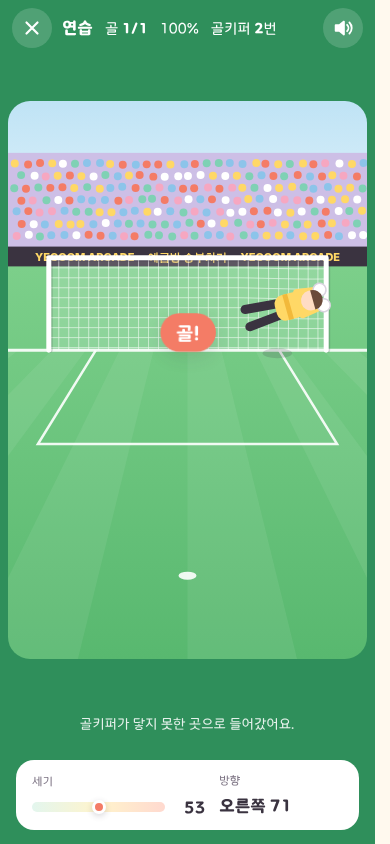
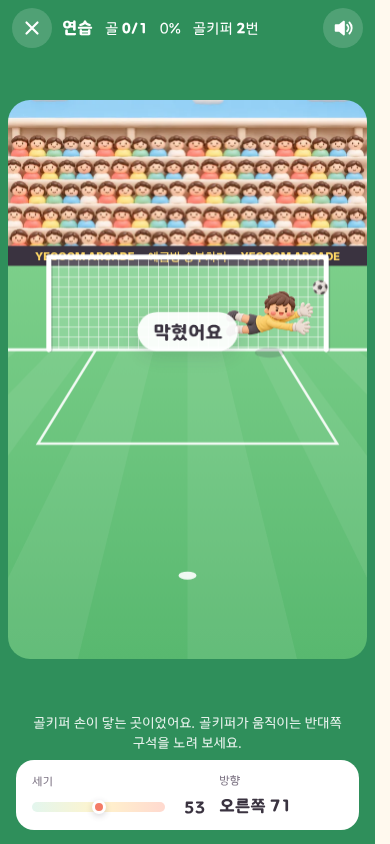
추가 그림 5장 반영: 관중석, 골키퍼 점프, 세 게임 결과 그림
- 승부차기 배경 윗부분을 받은 관중석 그림으로 그리고, 가까이 오는 높은 공에는 점프 그림을 쓴다.
- 컬링·승부차기 결과 창과 빙고 1등 결과 카드에 결과 그림을 넣었다.
- prepare-arcade-art.py가 12장 전체를 변환한다.

Claude-Session: https://claude.ai/code/session_01Ei8sjbU4X53G2XoeWvbNEU

diff --git a/src/penalty/render.ts b/src/penalty/render.ts
@@ -34,10 +34,14 @@ export interface Scene {
   netAt: { x: number; y: number } | null;
 }
 const POST = 5;
-export const ART = { ball: "/penalty/ball.webp", ready: "/penalty/keeper-ready.webp", dive: "/penalty/keeper-dive.webp" } as const;
+export const ART = { ball: "/penalty/ball.webp", ready: "/penalty/keeper-ready.webp", dive: "/penalty/keeper-dive.webp", jump: "/penalty/keeper-jump.webp", stand: "/penalty/stand.webp" } as const;
 /** How tall the standing keeper picture is, and how long the diving one, in metres.
  * Standing, the open arms span about the reach the engine gives a keeper who does not move. */
-const KEEPER_HEIGHT = 1.95, DIVE_LENGTH = 2.3;
+const KEEPER_HEIGHT = 1.95, DIVE_LENGTH = 2.3, JUMP_HEIGHT = 2.3;
+/** Off the ground by more than this (metres) without diving, the keeper is drawn jumping. */
+const JUMP_LIFT = 0.1;
+/** The stand picture covers the stage down to the foot of the advertising board. */
+const STAND_HEIGHT = 166, BOARD_TOP = 146;
 /** Past this lean the diving picture replaces the standing one. */
 const DIVE_LEAN = 0.75;
 
@@ -54,7 +58,8 @@ export class PenaltyRenderer {
     if (typeof Image !== "undefined") for (const key of Object.keys(ART) as (keyof typeof ART)[]) {
       const image = new Image();
       image.decoding = "async";
-      image.onload = () => { this.art[key] = image; };
+      // The stand is part of the painted backdrop: paint that again once it is here.
+      image.onload = () => { this.art[key] = image; if (key === "stand") this.backdrop = null; };
       image.src = ART[key];
     }
   }
@@ -85,19 +90,22 @@ export class PenaltyRenderer {
     layer.width = this.canvas.width; layer.height = this.canvas.height;
     const ctx = layer.getContext("2d")!;
     ctx.setTransform(this.ratio, 0, 0, this.ratio, 0, 0);
-    const sky = ctx.createLinearGradient(0, 0, 0, 150);
-    sky.addColorStop(0, "#bfe3f5"); sky.addColorStop(1, "#e6f5fb");
-    ctx.fillStyle = sky; ctx.fillRect(0, 0, STAGE.width, 150);
-    // The stand: rows of dots for the crowd, then an advertising board.
-    ctx.fillStyle = "#cdbfe6"; ctx.fillRect(0, 52, STAGE.width, 100);
-    let seed = 11;
-    const random = () => ((seed = (Math.imul(seed, 1664525) + 1013904223) >>> 0) / 0x100000000);
-    const crowd = ["#f47c66", "#ffd866", "#ffffff", "#7fd1b4", "#8cc4ea", "#f6a7c1"];
-    for (let row = 0; row < 7; row++) for (let x = 6 + (row % 2) * 6; x < STAGE.width; x += 12) {
-      ctx.fillStyle = crowd[Math.floor(random() * crowd.length)]!;
-      ctx.beginPath(); ctx.arc(x + random() * 3, 62 + row * 12 + random() * 2, 4, 0, Math.PI * 2); ctx.fill();
+    if (this.art.stand) ctx.drawImage(this.art.stand, 0, 0, STAGE.width, STAND_HEIGHT);
+    else {
+      const sky = ctx.createLinearGradient(0, 0, 0, 150);
+      sky.addColorStop(0, "#bfe3f5"); sky.addColorStop(1, "#e6f5fb");
+      ctx.fillStyle = sky; ctx.fillRect(0, 0, STAGE.width, 150);
+      // The stand: rows of dots for the crowd, then an advertising board.
+      ctx.fillStyle = "#cdbfe6"; ctx.fillRect(0, 52, STAGE.width, 100);
+      let seed = 11;
+      const random = () => ((seed = (Math.imul(seed, 1664525) + 1013904223) >>> 0) / 0x100000000);
+      const crowd = ["#f47c66", "#ffd866", "#ffffff", "#7fd1b4", "#8cc4ea", "#f6a7c1"];
+      for (let row = 0; row < 7; row++) for (let x = 6 + (row % 2) * 6; x < STAGE.width; x += 12) {
+        ctx.fillStyle = crowd[Math.floor(random() * crowd.length)]!;
+        ctx.beginPath(); ctx.arc(x + random() * 3, 62 + row * 12 + random() * 2, 4, 0, Math.PI * 2); ctx.fill();
+      }
     }
-    ctx.fillStyle = "#3a3340"; ctx.fillRect(0, 146, STAGE.width, 20);
+    ctx.fillStyle = "#3a3340"; ctx.fillRect(0, BOARD_TOP, STAGE.width, STAND_HEIGHT - BOARD_TOP);
     ctx.fillStyle = "#ffd866"; ctx.font = "800 11px system-ui, sans-serif"; ctx.textAlign = "center";
     ctx.fillText("YEGOOM ARCADE  ·  예굼방 승부차기  ·  YEGOOM ARCADE", CX, 160);
     const grass = ctx.createLinearGradient(0, 166, 0, STAGE.height);
@@ -164,7 +172,7 @@ export class PenaltyRenderer {
     // Shadow stays on the grass under the keeper.
     ctx.fillStyle = "rgba(58, 51, 64, 0.18)";
     ctx.beginPath(); ctx.ellipse(feet.x, GROUND + 3, 20 - Math.min(8, pose.lift * 8), 5, 0, 0, Math.PI * 2); ctx.fill();
-    const lean = Math.abs(pose.lean), { ready, dive } = this.art;
+    const lean = Math.abs(pose.lean), { ready, dive, jump } = this.art;
     if (dive && lean > DIVE_LEAN) {
       // Flying sideways: the picture dives to the right and is mirrored for the left.
       // Early in the dive it is still tipped up; at full stretch it lies level.
@@ -177,8 +185,17 @@ export class PenaltyRenderer {
       ctx.restore();
       return;
     }
+    if (jump && pose.lift > JUMP_LIFT) {
+      // Up for a high ball close by: arms straight above the head.
+      const height = JUMP_HEIGHT * unit, width = height * KEEPER_ART.jump;
+      ctx.translate(feet.x, feet.y);
+      ctx.rotate(pose.lean * 0.6);
+      ctx.drawImage(jump, -width / 2, -height, width, height);
+      ctx.restore();
+      return;
+    }
     if (ready) {
-      // Standing, stepping or jumping: the picture turns a little about its feet.
+      // Standing or stepping: the picture turns a little about its feet.
       const height = KEEPER_HEIGHT * unit, width = height * KEEPER_ART.ready;
       ctx.translate(feet.x, feet.y);
       ctx.rotate(pose.lean * 0.6);

diff --git a/src/screens/Bingo.tsx b/src/screens/Bingo.tsx
@@ -291,6 +291,7 @@ function Result({ game, me }: { game: BingoGameView; me: string }) {
   const mine = game.seats.find(seat => seat.player.id === me);
   return <section className="bingo-card card" aria-label="지난 빙고 결과">
     <div className="bingo-head"><strong>{game.number}번째 빙고 「{game.topic}」</strong><span className="bingo-chip">{game.lines}줄 빙고</span></div>
+    {mine?.rank === 1 && <img className="bingo-result-art" src="/bingo/result.webp" alt="" />}
     <p className="bingo-hint">{mine?.rank ? `${mine.rank}등으로 마쳤어요${mine.points ? ` · +${mine.points}점` : ""}.` : "이번 판 결과예요."} 단어 {game.calls.length}개가 지워졌어요.</p>
     <Seats game={game} me={me} />
     <details className="bingo-reveal"><summary>모두의 빙고판 보기</summary>

diff --git a/src/penalty/art.ts b/src/penalty/art.ts
@@ -1,3 +1,3 @@
 // Written by scripts/prepare-arcade-art.py from the keeper pictures. Do not edit by hand.
 /** Width divided by height of each keeper picture once its margin is cropped. */
-export const KEEPER_ART = { ready: 0.9844, dive: 1.9394 } as const;
+export const KEEPER_ART = { ready: 0.9844, dive: 1.9394, jump: 0.7375 } as const;

diff --git a/src/bingo.css b/src/bingo.css
@@ -61,3 +61,4 @@ button.bingo-cell { touch-action: manipulation; }
 .bingo-reveal { font-size: 13px; }
 .bingo-reveal-board { display: grid; gap: 6px; margin-top: 12px; }
 .bingo-reveal-board small { color: var(--muted); font-weight: 700; }
+.bingo-result-art { display: block; width: 132px; height: 132px; margin: 0 auto -4px; }

diff --git a/scripts/prepare-arcade-art.py b/scripts/prepare-arcade-art.py
@@ -2,11 +2,13 @@
 """Optimize the user-provided curling, penalty and bingo images (docs/asset-provenance.md).
 
 Usage: python3 scripts/prepare-arcade-art.py <folder with the original PNGs>
-Reads curling-tile, penalty-tile, bingo-tile, curling-stone, penalty-ball,
-keeper-ready and keeper-dive (.png) and writes WebP files (RGB quality 85,
-lossless alpha) under public/curling, public/penalty and public/bingo. Faint
-specks (alpha 24 or less) are cleared and the transparent margin is cropped.
-It also writes src/penalty/art.ts with the keeper pictures' proportions.
+Reads the tile, result, stone, ball and keeper pictures and the stadium stand
+(.png, named as in docs/arcade-image-prompts.md) and writes WebP files (RGB
+quality 85, lossless alpha) under public/curling, public/penalty and
+public/bingo. Faint specks (alpha 24 or less) are cleared and the transparent
+margin is cropped. The stand is an opaque background: a band of it is cut to
+the shape of the top of the penalty stage. It also writes src/penalty/art.ts
+with the keeper pictures' proportions.
 Requires Pillow with WebP support.
 """
 
@@ -28,7 +30,15 @@ TARGETS = {
     "penalty-ball": ("public/penalty/ball.webp", "square", 128),
     "keeper-ready": ("public/penalty/keeper-ready.webp", "height", 256),
     "keeper-dive": ("public/penalty/keeper-dive.webp", "width", 320),
+    "keeper-jump": ("public/penalty/keeper-jump.webp", "height", 320),
+    "curling-result": ("public/curling/result.webp", "square", 240),
+    "penalty-result": ("public/penalty/result.webp", "square", 240),
+    "bingo-result": ("public/bingo/result.webp", "square", 240),
 }
+# The stand fills the stage above the goal line's advertising board: 360 x 166
+# logical pixels, stored at twice that. The band starts a little above the roof
+# so some sky shows, and ends inside the front row (the board is drawn over it).
+STAND = {"output": "public/penalty/stand.webp", "top": 130 / 1024, "size": (720, 332)}
 
 
 def trimmed(source: Path) -> Image.Image:
@@ -62,11 +72,19 @@ def prepare(folder: Path, root: Path) -> None:
         image.save(destination, format="WEBP", quality=QUALITY, alpha_quality=100, lossless=False, method=6, exact=True)
         sizes[name] = image.size
         print(f"{name}\t{source.stat().st_size}\t{destination.stat().st_size}\t{image.width}x{image.height}")
-    ready, dive = sizes["keeper-ready"], sizes["keeper-dive"]
+    with Image.open(folder / "penalty-stand.png") as original:
+        stand = original.convert("RGB")
+    width, height = STAND["size"]
+    top = round(stand.height * STAND["top"])
+    band = stand.crop((0, top, stand.width, top + round(stand.width * height / width))).resize((width, height), Image.Resampling.LANCZOS)
+    destination = root / STAND["output"]
+    band.save(destination, format="WEBP", quality=80, method=6)
+    print(f"penalty-stand\t{(folder / 'penalty-stand.png').stat().st_size}\t{destination.stat().st_size}\t{width}x{height}")
+    ready, dive, jump = sizes["keeper-ready"], sizes["keeper-dive"], sizes["keeper-jump"]
     (root / "src/penalty/art.ts").write_text(
         "// Written by scripts/prepare-arcade-art.py from the keeper pictures. Do not edit by hand.\n"
         "/** Width divided by height of each keeper picture once its margin is cropped. */\n"
-        f"export const KEEPER_ART = {{ ready: {ready[0] / ready[1]:.4f}, dive: {dive[0] / dive[1]:.4f} }} as const;\n",
+        f"export const KEEPER_ART = {{ ready: {ready[0] / ready[1]:.4f}, dive: {dive[0] / dive[1]:.4f}, jump: {jump[0] / jump[1]:.4f} }} as const;\n",
         encoding="utf-8",
     )
 

diff --git a/docs/asset-provenance.md b/docs/asset-provenance.md
@@ -73,9 +73,9 @@ python3 scripts/prepare-santa-art.py /path/to/santa-images
 
 ## 컬링·승부차기·빙고 그림
 
-- `public/curling/{tile,stone}.webp`, `public/penalty/{tile,ball,keeper-ready,keeper-dive}.webp`, `public/bingo/tile.webp` 7장은 사용자가 2026-11-20에 제공한 이미지다. 사용자가 [이미지 프롬프트](arcade-image-prompts.md)로 이미지 생성기에서 만들었다. 지인용 비공개 서비스 전용이다.
-- 원본 PNG(1024×1024, 골키퍼 다이빙만 1536×1024, 장당 0.7~1.7MB)는 커밋 `91a0e84`의 `public/arcade/`에 있다. 그대로 두면 서비스 워커가 미리 받아 두는 파일에 들어가므로 변환한 뒤 작업 트리에서는 지웠다.
-- `scripts/prepare-arcade-art.py`가 알파 24 이하의 옅은 잡티를 지우고 투명 여백을 자른 뒤 WebP(RGB quality 85, 알파 무손실)로 줄인다. 골키퍼 두 장의 가로세로 비율은 `src/penalty/art.ts`로 쓴다. 그림을 바꾸면 스크립트를 다시 돌린다.
+- `public/curling/{tile,result,stone}.webp`, `public/penalty/{tile,result,ball,keeper-ready,keeper-dive,keeper-jump,stand}.webp`, `public/bingo/{tile,result}.webp` 12장은 사용자가 2026-11-20에 제공한 이미지다(먼저 7장, 이어서 골키퍼 점프·관중석·결과 그림 3장). 사용자가 [이미지 프롬프트](arcade-image-prompts.md)로 이미지 생성기에서 만들었다. 지인용 비공개 서비스 전용이다.
+- 먼저 받은 7장의 원본 PNG(1024×1024, 골키퍼 다이빙만 1536×1024, 장당 0.7~1.7MB)는 커밋 `91a0e84`의 `public/arcade/`에 있다. 그대로 두면 서비스 워커가 미리 받아 두는 파일에 들어가므로 변환한 뒤 작업 트리에서는 지웠다. 나중에 받은 5장은 압축 파일로 받아 변환만 했고 원본은 저장소에 없다.
+- `scripts/prepare-arcade-art.py`가 알파 24 이하의 옅은 잡티를 지우고 투명 여백을 자른 뒤 WebP(RGB quality 85, 알파 무손실)로 줄인다. 관중석은 불투명 배경이라 여백을 자르지 않고, 지붕 조금 위부터 무대 윗부분 모양(360:166)만큼 잘라 쓴다(맨 앞줄 아래는 코드로 그리는 광고판이 가린다). 골키퍼 세 장의 가로세로 비율은 `src/penalty/art.ts`로 쓴다. 그림을 바꾸면 스크립트를 다시 돌린다.
 
 | 파일 | 원본 | WebP 바이트 | 크기 |
 | --- | --- | ---: | --- |
@@ -86,6 +86,11 @@ python3 scripts/prepare-santa-art.py /path/to/santa-images
 | penalty/ball | penalty-ball.png 1024×1024 | 5,400 | 128×128 |
 | penalty/keeper-ready | keeper-ready.png 1024×1024 | 16,346 | 252×256 |
 | penalty/keeper-dive | keeper-dive.png 1536×1024 | 16,274 | 320×165 |
+| penalty/keeper-jump | keeper-jump.png 1024×1536 | 18,780 | 236×320 |
+| curling/result | curling-result.png 1254×1254 | 16,636 | 240×240 |
+| penalty/result | penalty-result.png 1254×1254 | 18,996 | 240×240 |
+| bingo/result | bingo-result.png 1254×1254 | 17,602 | 240×240 |
+| penalty/stand | penalty-stand.png 1536×1024 | 43,080 | 720×332 |
 
 ```sh
 git show 91a0e84 --stat   # 원본 PNG가 들어 있는 커밋

diff --git a/docs/arcade-image-prompts.md b/docs/arcade-image-prompts.md
@@ -1,6 +1,6 @@
 # 컬링·승부차기·빙고 — 이미지 프롬프트
 
-> 1~7번은 2026-11-20에 받아서 반영했습니다([출처 기록](asset-provenance.md)). 선택 그림(8~10번)은 아직 없고, 없는 동안에는 준비 자세 그림과 코드로 그린 관중석을 씁니다.
+> 1~10번을 모두 2026-11-20에 받아서 반영했습니다([출처 기록](asset-provenance.md)). 결과 그림은 컬링·승부차기 결과 창과, 빙고에서 1등을 했을 때의 결과 카드에 씁니다.
 
 **한 대화창에서 0번부터 차례로** 만들면 그림체가 맞춰집니다.
 
@@ -86,7 +86,7 @@ The SAME goalkeeper character as the previous image (same face, same hair, same 
 
 ## (선택) 있으면 좋은 그림
 
-필수는 아닙니다. 없으면 지금처럼 코드로 그리거나 다른 그림을 대신 씁니다.
+필수는 아니었지만 모두 받았습니다. 그림을 불러오지 못하면 코드로 그린 도형이 대신 나옵니다.
 
 ### 8. 골키퍼 점프 — `keeper-jump.png`
 
@@ -106,7 +106,7 @@ Cute 3D clay toy style background for a soccer penalty game: a stadium stand see
 
 ### 10. 결과 창 그림 — `curling-result.png` · `penalty-result.png` · `bingo-result.png`
 
-결과 창에는 타일 그림(1~3번)을 그대로 씁니다. 따로 넣고 싶을 때만 만들어 주세요. 타일 프롬프트 끝에 아래 문장을 덧붙이면 됩니다.
+타일 프롬프트 끝에 아래 문장을 덧붙여 만듭니다.
 
 ```
 Same character as the icon, but now jumping with joy with both arms up and little confetti pieces around it.

diff --git a/docs/plan-penalty.md b/docs/plan-penalty.md
@@ -44,7 +44,7 @@
 | 파일 | 내용 |
 | --- | --- |
 | `shared/penalty-engine.ts` | 골키퍼 다섯 명(`penaltyKeepers`), 골키퍼 위치(`keeperAt`), 킥 판정(`judgeKick`) |
-| `src/penalty/render.ts` | 공 뒤에서 본 골대·관중석·그물은 캔버스로, 공과 골키퍼(준비·다이빙)는 받은 그림으로 그림. 그림이 아직 안 왔으면 도형으로 그림 |
+| `src/penalty/render.ts` | 골대·잔디·그물은 캔버스로, 관중석·공·골키퍼(준비·점프·다이빙)는 받은 그림으로 그림. 그림을 불러오지 못하면 도형으로 그림 |
 | `src/penalty/controller.ts` | 휘슬·시계·쓸어 올리기·공 비행·다이빙 재생 |
 | `src/screens/Penalty.tsx` | 화면과 문구 |
 
@@ -54,4 +54,4 @@
 
 ## 4. 다음에 정할 것
 
-- 도전과제(운영 시트에 먼저). 골키퍼 점프 그림과 관중석 그림은 [이미지 프롬프트](arcade-image-prompts.md)의 선택 항목으로 남아 있다.
+- 도전과제(운영 시트에 먼저). 그림은 모두 받았다([이미지 프롬프트](arcade-image-prompts.md)).
